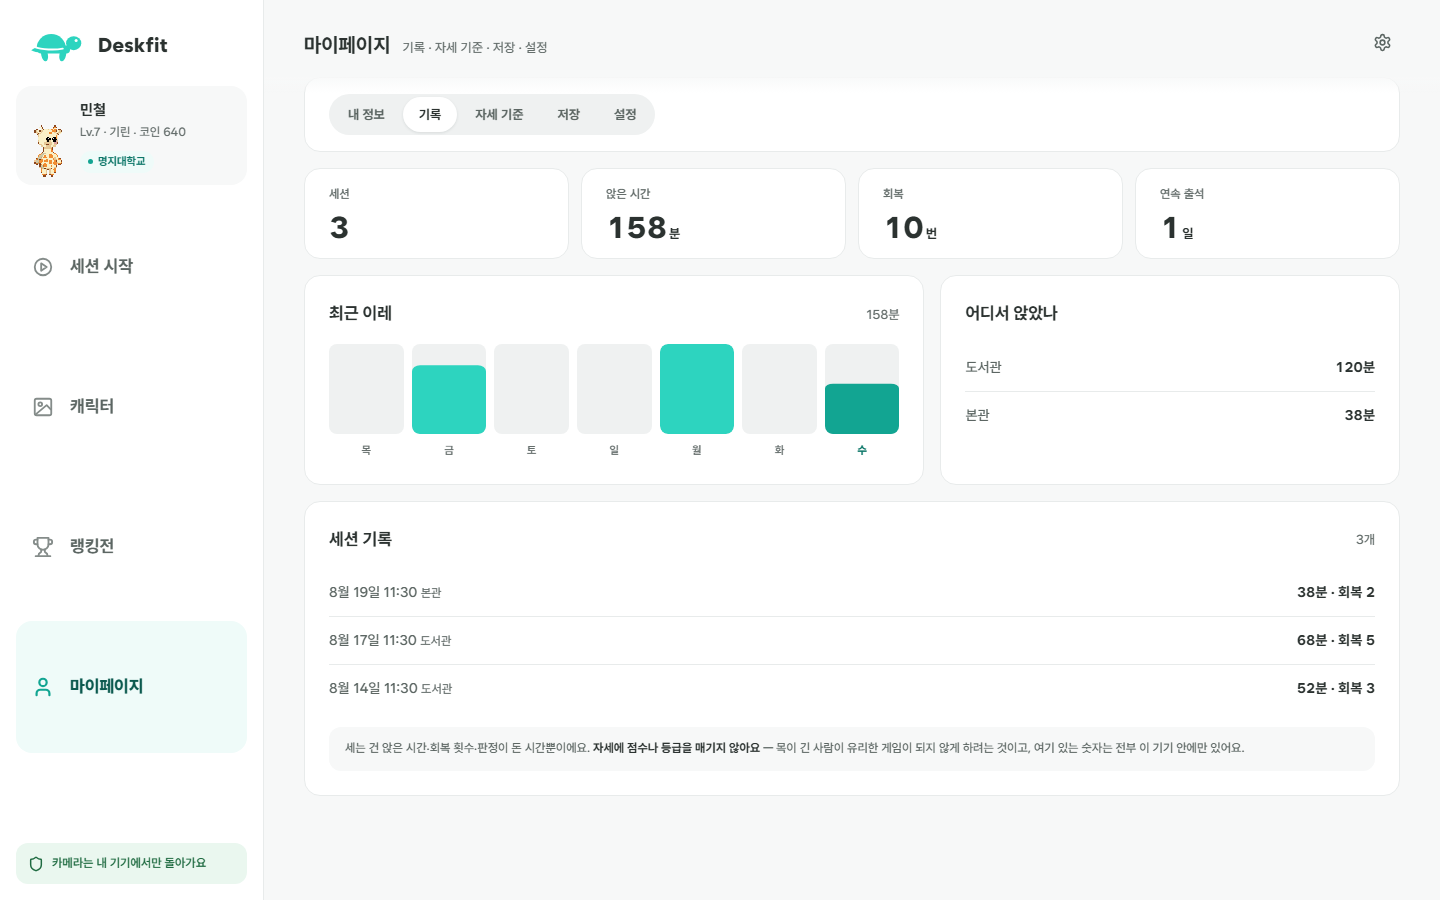
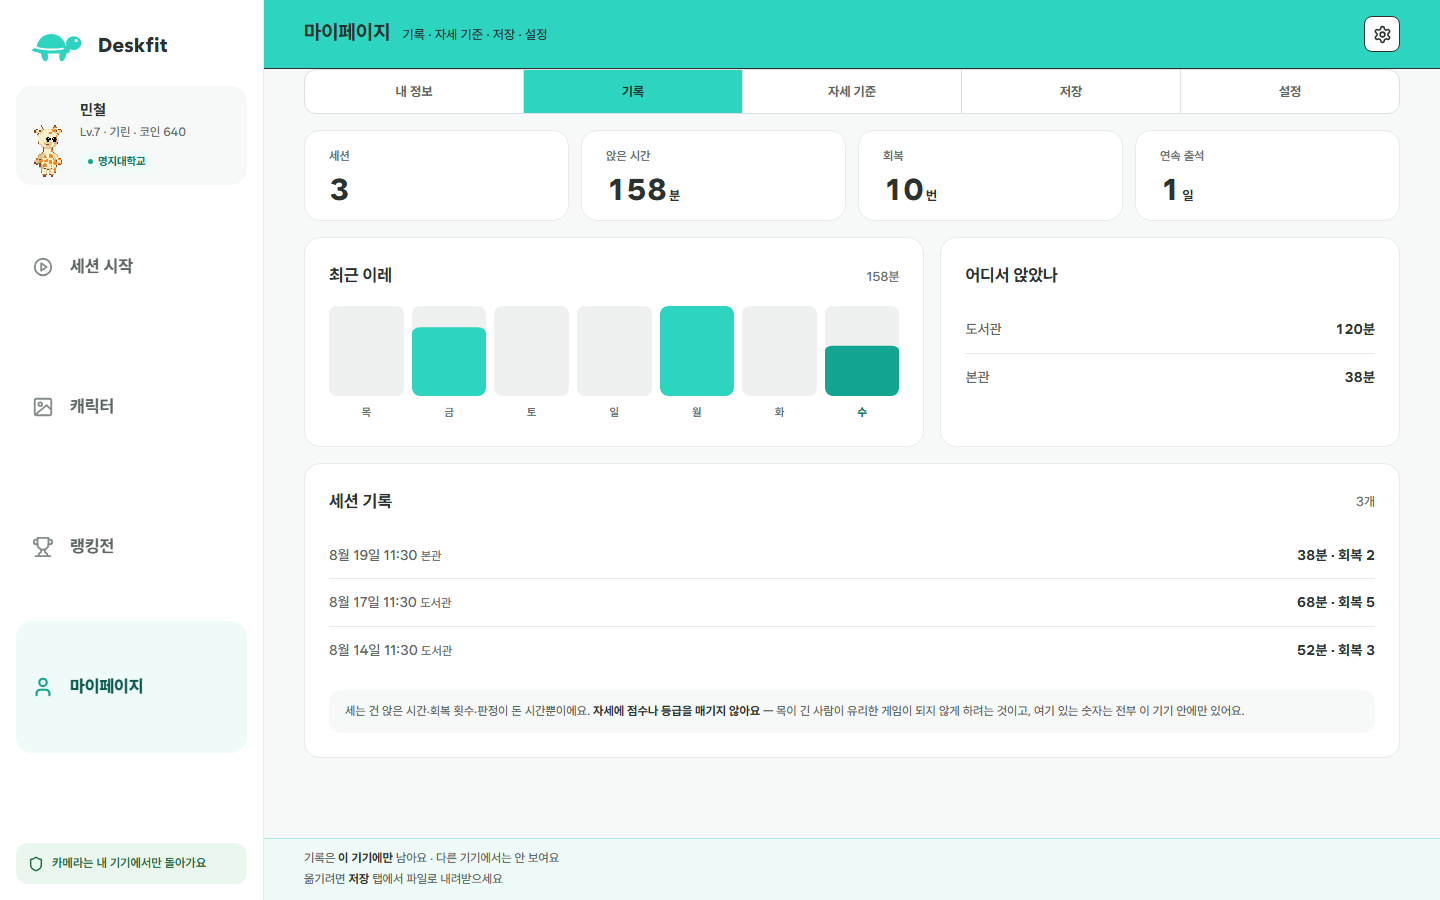
feat(home): give the main page the world's window grammar
The world's panels have a shape the main page never borrowed: a filled header
band, tabs that fill rather than underline, and a strip along the bottom that
tells you how the thing is operated. The main page had a pale frosted bar, a
pill segmented control, and nowhere at all to say how anything works.

Header. The top bar is solid teal with an ink rule under it, and the gear
becomes a white square with an ink border — the same close button the panels
use. The frosted glass and the fading tail underneath were there so content
could show through a cream bar; behind a filled colour there is nothing to show
through, so they were computing blur for no visible result.

Tabs. My-page's five tabs shared the width, separated by hairlines, with the
selected one filled teal. The pill-inside-a-pill read as floating above the row;
a filled cell reads as being the row. It also means a block of the brand colour
is on screen wherever you are.

Hint strip. New, and the part of the reference worth stealing most. Each view
carries its own line: which door needs a code and which is the whole school, that
ranking counts sitting time and recovery and never posture, that records live on
this device only and the 저장 tab is how they leave. Views without one hide the
strip rather than filling it with something true everywhere and read nowhere.

The wizard gets the same header, with a title it never had, and its progress
[…]

diff --git a/prototypes/home/index.html b/prototypes/home/index.html
@@ -307,23 +307,62 @@ ul, ol { margin: 0; padding: 0; list-style: none; }
 .main { min-width: 0; display: flex; flex-direction: column; height: 100%; overflow-y: auto; }
 /* 바 아래로 내용이 흘러갑니다. 1px 실선으로 자르면 두 층이 서로 모르는
    것이 되고, 흐려 두면 같은 화면의 위아래가 됩니다. */
+/* ================= 창 문법 =================
+   월드의 패널에서 가져온 것입니다. 머리띠가 꽉 찬 주색이고, 탭은 밑줄이
+   아니라 채운 칸이고, 바닥에 조작 방법을 적은 띠가 붙습니다.
+
+   왜 서리 유리를 걷어냈나 — 크림 바에서는 아래 내용이 비쳐 보이는 것이
+   두 층을 한 화면으로 묶었습니다. 꽉 찬 색에서는 비칠 것이 없으므로
+   blur 는 계산만 하고 아무 일도 안 합니다. 대신 먹 선 하나로 자릅니다.
+   ================================================= */
 .topbar {
+  /* 청록 위에서는 초점 링도 청록일 수 없습니다(2.87). 이 구역만 먹으로. */
+  --focus: var(--ink);
   position: sticky; top: 0; z-index: 20;
   display: flex; align-items: baseline; gap: var(--sp-md);
-  padding: var(--sp-xl) var(--sp-2xl) var(--sp-lg);
-  background: color-mix(in srgb, var(--surface-2) 74%, transparent);
-  backdrop-filter: blur(24px) saturate(180%);
-  -webkit-backdrop-filter: blur(24px) saturate(180%);
+  padding: var(--sp-lg) var(--sp-2xl);
+  background: var(--teal); color: var(--on-teal);
+  border-bottom: 1px solid var(--ink);
+
+
 }
-.topbar::after {
-  content: ''; position: absolute; left: 0; right: 0; top: 100%;
-  height: 16px; pointer-events: none;
-  background: linear-gradient(to bottom,
-    color-mix(in srgb, var(--surface-2) 88%, transparent), transparent);
-}
-.topbar h1 { font-size: var(--fs-xl); }
-.topbar .sub { font-size: var(--fs-sm); color: var(--ink-3); }
+.topbar h1 { font-size: var(--fs-xl); color: var(--on-teal); }
+/* 부제도 먹입니다. 청록 위에서 회색 계열은 전부 떨어집니다 — 재 봤습니다.
+     --ink-3   #656E6C   2.40
+     --ink-2   #5C6663   3.19
+     --teal-800 #0C5A4F  4.36  ← 통과처럼 보이지만 4.5 미달
+     --ink     #2B3230   7.04
+   4.5 를 넘기려고 9번째 청록을 만드는 순간 토큰에 없는 값이 하나 더
+   생깁니다. 참고한 창도 머리띠 안에서는 한 색만 씁니다 — 위계는 색이
+   아니라 크기와 무게가 냅니다. */
+.topbar .sub { font-size: var(--fs-sm); font-weight: 500; color: var(--on-teal); }
 .topbar .spacer { margin-left: auto; }
+/* 참고한 창의 닫기 단추와 같습니다 — 흰 칸에 먹 테두리. 청록 위에서
+   아이콘만 놓으면 3.2:1 이라 안 보입니다. */
+.topbar .iconbtn {
+  align-self: center;
+  background: var(--surface); border: 1px solid var(--ink);
+  border-radius: var(--r-sm); color: var(--ink);
+}
+.topbar .iconbtn:hover { background: var(--teal-50); color: var(--ink); }
+.topbar .iconbtn:active { background: var(--teal-100); }
+
+/* ---- 바닥 도움말 띠 ----
+   참고한 창이 "끌어서 놓기 · 우클릭으로 치우기 · 자판만 쓸 때는 Enter"
+   를 바닥에 붙여 둔 자리입니다. 조작 방법을 화면 안에서 말하는 곳이
+   여기밖에 없었고, 지금까지 메인에는 그 자리가 아예 없었습니다.
+
+   sticky 라 긴 화면에서도 따라옵니다. 내용은 화면마다 다르므로 VIEWS
+   가 들고 있습니다 — 없는 화면에서는 통째로 숨습니다. */
+.hint {
+  position: sticky; bottom: 0; z-index: 15; margin-top: auto;
+  padding: 9px var(--sp-2xl) 10px;
+  background: var(--teal-50); border-top: 1px solid var(--teal-200);
+  font-size: var(--fs-xs); line-height: 1.75; color: var(--ink-2);
+}
+.hint b { color: var(--ink); font-weight: 700; }
+.hint[hidden] { display: none; }
+
 /* 보이는 크기는 36 그대로 두고 **누를 수 있는 영역만** 40 으로 넓힙니다.
    조밀한 데스크톱 화면의 하한이 40 입니다. 디자인은 그대로고 손만
    편해집니다. */
@@ -445,6 +484,10 @@ ul, ol { margin: 0; padding: 0; list-style: none; }
   transition: transform var(--t-press) var(--press),
               box-shadow var(--t-quick) var(--ease);
   border-radius: var(--r-lg);
+  /* 위에 청록 머리띠가 얹히면서 청록 판이 머리띠의 연장으로 읽힙니다.
+     참고한 창처럼 실선 하나로 가릅니다 — 여백을 벌리면 두 판이 화면
+     절반씩 나눠 갖는 배치가 흐트러집니다. */
+  border: 1px solid var(--ink);
   /* 화면 높이를 따라갑니다. 판이 화면 절반이라 여백을 고정하면 낮은
      화면에서 글이 밀려 나갑니다. */
   padding: clamp(20px, 3.4vh, 40px) var(--sp-2xl);
@@ -551,14 +594,36 @@ ul, ol { margin: 0; padding: 0; list-style: none; }
 
 
 /* ---- 세그·줄·타일·숫자 ---- */
-.seg { display: inline-flex; gap: 2px; padding: 3px; border-radius: var(--r-pill); background: var(--surface-3); }
+/* ---- 탭 줄 ----
+   알약 안에서 흰 알약이 미끄러지는 방식이었습니다. 참고한 창은 반대로
+   **고른 칸을 주색으로 채웁니다.** 알약 방식은 고른 것이 배경보다 밝아서
+   "떠 있는" 것으로 읽히고, 채우는 방식은 "여기가 지금 그것" 으로 읽힙니다.
+   화면 어디서든 주색 덩어리가 하나 보이는 것도 이 방식의 몫입니다.
+
+   칸이 폭을 나눠 가집니다 — 글자 길이에 따라 칸이 들쭉날쭉하면 눌러야
+   할 곳을 매번 다시 찾습니다. 사이는 실선 하나로만 나눕니다. */
+.seg {
+  display: flex; width: 100%; gap: 0; padding: 0;
+  border: 1px solid var(--line-2); border-radius: var(--r-md);
+  background: var(--surface); overflow: hidden;
+}
 .seg button {
-  padding: 7px var(--sp-lg); border-radius: var(--r-pill);
+  flex: 1 1 0; min-width: 0;
+  padding: 11px var(--sp-sm); border-radius: 0;
+  border-left: 1px solid var(--line-2);
   font-size: var(--fs-sm); font-weight: 700; color: var(--ink-2);
   transition: background var(--t-press) var(--ease), color .18s var(--ease);
 }
-.seg button[aria-selected="true"] { background: var(--surface); color: var(--ink); box-shadow: 0 1px 3px rgba(20,40,38,.10); }
-.seg button:active { transform: scale(.96); }
+.seg button:first-child { border-left: 0; }
+.seg button:hover { background: var(--surface-2); color: var(--ink); }
+.seg button[aria-selected="true"] {
+  background: var(--teal); color: var(--on-teal); box-shadow: none;
+}
+/* 채운 칸에는 호버가 없습니다 — 이미 그 칸입니다. 안 막으면 고른 칸에
+   손을 올렸을 때 주색이 회색으로 바뀝니다. */
+.seg button[aria-selected="true"]:hover { background: var(--teal); color: var(--on-teal); }
+.seg button:active { transform: none; background: var(--teal-400); }
+.seg button:focus-visible { outline-offset: -3px; }
 
 .rows { display: flex; flex-direction: column; }
 .row { display: flex; align-items: center; gap: var(--sp-md); padding: var(--sp-md) 0; border-bottom: 1px solid var(--line); font-size: var(--fs-md); }
@@ -807,34 +872,41 @@ function importSave() {
 }
 .wizard.up { transform: none; }
 
+/* 마법사 머리띠도 메인과 같은 창 문법입니다. 이 창은 화면을 다 덮는데
+   머리띠가 흰색이면 어디까지가 창인지 경계가 없었습니다 — 뒤에 아무것도
+   없으니 서리 유리도 흐릴 것이 없었고요. */
 .wiz-nav {
+  --focus: var(--ink);
   position: relative; z-index: 2;
   display: flex; align-items: center; gap: var(--sp-lg);
   padding: var(--sp-lg) var(--sp-2xl);
-  background: color-mix(in srgb, var(--bg) 72%, transparent);
-  backdrop-filter: blur(24px) saturate(180%);
-  -webkit-backdrop-filter: blur(24px) saturate(180%);
+  background: var(--teal); color: var(--on-teal);
+  border-bottom: 1px solid var(--ink);
 }
-.wiz-nav::after {
-  content: ''; position: absolute; left: 0; right: 0; top: 100%;
-  height: 16px; pointer-events: none;
-  background: linear-gradient(to bottom,
-    color-mix(in srgb, var(--bg) 88%, transparent), transparent);
-}
+.wiz-nav .wiz-title { font-size: var(--fs-lg); font-weight: 800; color: var(--on-teal); }
 .wiz-back {
   display: inline-flex; align-items: center; gap: 5px;
   padding: 7px var(--sp-md); border-radius: var(--r-pill);
-  font-size: var(--fs-md); font-weight: 700; color: var(--ink-2);
+  font-size: var(--fs-md); font-weight: 700; color: var(--ink);
   transition: background var(--t-press) var(--ease), opacity var(--t-quick) var(--ease);
 }
-.wiz-back:hover { background: var(--surface-2); color: var(--ink); }
+.wiz-back:hover { background: var(--teal-50); color: var(--ink); }
+.wiz-nav .iconbtn {
+  background: var(--surface); border: 1px solid var(--ink);
+  border-radius: var(--r-sm); color: var(--ink);
+}
+.wiz-nav .iconbtn:hover { background: var(--teal-50); color: var(--ink); }
+.wiz-nav .iconbtn:active { background: var(--teal-100); }
 .wiz-back[data-hidden="true"] { opacity: 0; pointer-events: none; }
 
 /* 진행 막대는 칸 다섯입니다. 채워진 칸이 곧 지나온 단계라, 몇 개가
    남았는지를 세지 않아도 눈으로 잽니다. */
 .wiz-track { display: flex; gap: 5px; margin: 0 auto; }
-.wiz-track i { width: 34px; height: 4px; border-radius: var(--r-pill); background: var(--surface-3); transition: background var(--t-move) var(--ease); }
-.wiz-track i[data-fill="true"] { background: var(--teal); }
+/* 청록 머리띠 위로 옮기면서 색이 뒤집혔습니다. 빈 칸이 --surface-3 이면
+   주색 바탕에서 밝은 회색이 되어 **빈 칸이 더 눈에 띕니다.** 빈 칸을
+   반투명 먹으로, 채운 칸을 흰색으로 둡니다. */
+.wiz-track i { width: 34px; height: 4px; border-radius: var(--r-pill); background: rgba(43,50,48,.26); transition: background var(--t-move) var(--ease); }
+.wiz-track i[data-fill="true"] { background: var(--surface); }
 .wiz-track i { transform-origin: left; }
 /* 방금 채워진 칸만 왼쪽에서 오른쪽으로 자랍니다. 전부 다시 그리면
    지나온 단계까지 매번 새로 칠해집니다. */
@@ -1404,7 +1476,7 @@ function importSave() {
 
     <!-- ---------- 마이페이지 ---------- -->
     <section class="view" id="v-my" hidden>
-      <div class="card" style="padding:var(--sp-lg) var(--sp-xl)">
+      <div>
         <div class="seg" role="tablist" aria-label="마이페이지">
           <button type="button" role="tab" aria-selected="true"  data-my="info">내 정보</button>
           <button type="button" role="tab" aria-selected="false" data-my="log">기록</button>
@@ -1415,6 +1487,9 @@ function importSave() {
       </div>
       <div id="myPane"></div>
     </section>
+
+    <!-- 화면마다 다른 조작 안내. 문구는 VIEWS 가 들고 있습니다 -->
+    <p class="hint" id="viewHint" hidden></p>
   </main>
 </div>
 
@@ -1426,6 +1501,7 @@ function importSave() {
            stroke-width="2.2" stroke-linecap="round" stroke-linejoin="round"><path d="m14 6-6 6 6 6"/></svg>
       이전
     </button>
+    <b class="wiz-title">방 만들기</b>
     <span class="wiz-track" id="wizTrack" role="progressbar"
           aria-valuemin="1" aria-valuemax="5" aria-valuenow="1" aria-label="방 만들기 진행">
       <i></i><i></i><i></i><i></i><i></i>
@@ -1614,12 +1690,20 @@ function drawPets(root) {
 /* ==================================================================
    화면
    ================================================================== */
+/* t 제목 · s 부제 · h 바닥 도움말(HTML, <b> 만 씁니다)
+ *
+ * h 는 **그 화면에서만 참인 것**을 적습니다. 어디서나 참인 말은 안 읽히고,
+ * 자리만 차지하다가 결국 아무도 안 봅니다. 없으면 띠가 통째로 숨습니다. */
 const VIEWS = {
-  start:  { t: '세션 시작',  s: '혼자 앉든 같이 앉든, 여기서 시작해요' },
-  lobby:  { t: '대기실',     s: '모두 기준을 확인하면 시작해요' },
+  start:  { t: '세션 시작',  s: '혼자 앉든 같이 앉든, 여기서 시작해요',
+            h: '<b>방 만들기</b>는 코드를 아는 사람만 · <b>월드 입장</b>은 우리 학교 전체와 같이 앉아요<br>판을 눌러도 들어가요 · 자판만 쓸 때는 <b>Tab</b> 으로 옮기고 <b>Enter</b>' },
+  lobby:  { t: '대기실',     s: '모두 기준을 확인하면 시작해요',
+            h: '코드를 받은 사람이 들어오면 여기 뜹니다 · <b>모두 준비</b>가 되어야 시작할 수 있어요' },
   char:   { t: '캐릭터',     s: '가진 옷으로 갈아입어요' },
-  league: { t: '랭킹전',     s: '학교끼리 앉은 시간을 겨뤄요' },
-  my:     { t: '마이페이지', s: '기록 · 자세 기준 · 저장 · 설정' },
+  league: { t: '랭킹전',     s: '학교끼리 앉은 시간을 겨뤄요',
+            h: '순위는 <b>앉은 시간과 회복 횟수</b>로만 매겨져요 · 자세에는 점수를 안 매겨요<br>시즌이 끝나면 순위가 초기화되고 다음 시즌이 열려요' },
+  my:     { t: '마이페이지', s: '기록 · 자세 기준 · 저장 · 설정',
+            h: '기록은 <b>이 기기에만</b> 남아요 · 다른 기기에서는 안 보여요<br>옮기려면 <b>저장</b> 탭에서 파일로 내려받으세요' },
 };
 
 function show(key) {
@@ -1635,6 +1719,12 @@ function show(key) {
   });
   $('viewTitle').textContent = VIEWS[key].t;
   $('viewSub').textContent = VIEWS[key].s;
+  /* 도움말 문구는 이 파일 안의 상수라 innerHTML 이 안전합니다 — 사용자가
+     넣은 값이 여기로 들어오는 길은 없습니다. <b> 하나 쓰자고 span 을
+     조립하지 않습니다. */
+  const hint = $('viewHint');
+  hint.innerHTML = VIEWS[key].h || '';
+  hint.hidden = !VIEWS[key].h;
   const v = $('v-' + key);
   if (v) v.querySelectorAll(':scope > *').forEach((c) => {
     c.style.animation = 'none'; void c.offsetWidth; c.style.animation = '';
